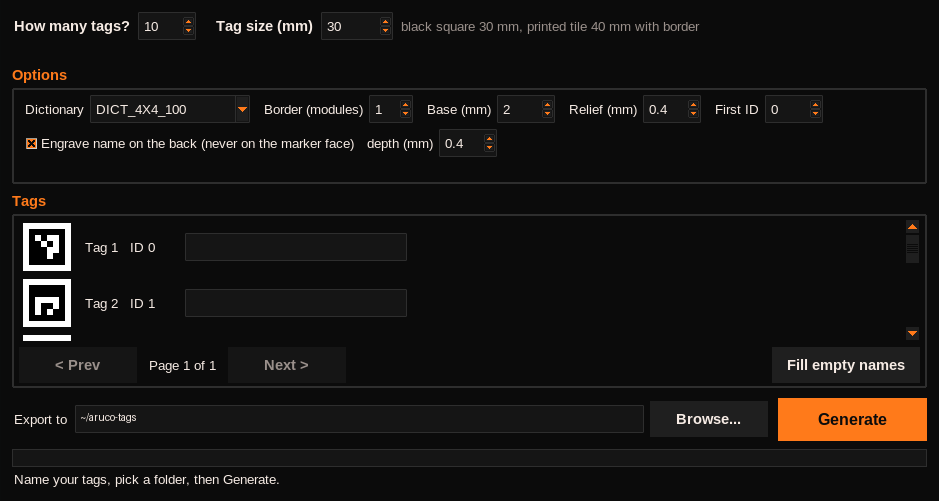
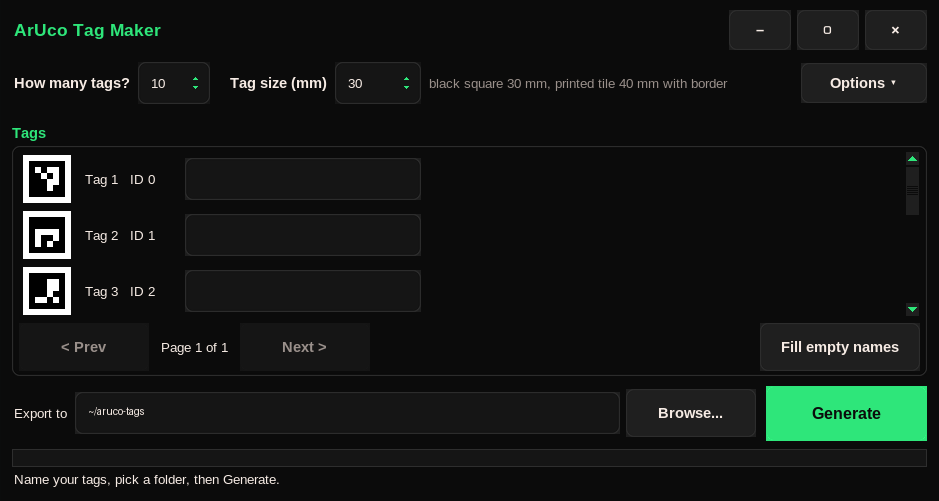
Green accent, rounded fields and buttons, window controls, collapsible options

diff --git a/src/aruco_tag_maker/theme.py b/src/aruco_tag_maker/theme.py
@@ -1,9 +1,12 @@
-"""Dark, high-contrast ttk theme (near-black surfaces, warm off-white text, orange accent)."""
+"""Dark, high-contrast ttk theme: near-black surfaces, warm off-white text, green accent,
+rounded fields and buttons (drawn as anti-aliased images, so it looks the same on every OS)."""
 
 from __future__ import annotations
 
 import tkinter as tk
 from tkinter import ttk
+
+from PIL import Image, ImageDraw, ImageTk
 
 BG = "#0b0b0b"          # window background
 SURFACE = "#151515"     # panels, entries
@@ -11,12 +14,12 @@ SURFACE_HI = "#1f1f1f"  # hover / raised
 BORDER = "#2e2e2e"
 TEXT = "#f7ece5"
 MUTED = "#9a908b"
-ACCENT = "#ff7a1a"
-ACCENT_HI = "#ff9a4d"
-ACCENT_LO = "#c85a0c"
+ACCENT = "#2ee67a"
+ACCENT_HI = "#62f59c"
+ACCENT_LO = "#1fae5a"
 ON_ACCENT = "#0b0b0b"
 ERROR = "#ff5c5c"
-FOCUS = "#ffb46b"
+FOCUS = "#8affbd"
 
 FONT = ("TkDefaultFont", 10)
 FONT_BOLD = ("TkDefaultFont", 11, "bold")
@@ -65,8 +68,8 @@ def apply(root: tk.Misc) -> ttk.Style:
                     lightcolor=ACCENT, darkcolor=ACCENT, font=("TkDefaultFont", 12, "bold"),
                     padding=(22, 9))
     style.map("Accent.TButton",
-              background=[("disabled", "#5a3a22"), ("pressed", ACCENT_LO), ("active", ACCENT_HI)],
-              foreground=[("disabled", "#9a7a62")],
+              background=[("disabled", "#1d4a31"), ("pressed", ACCENT_LO), ("active", ACCENT_HI)],
+              foreground=[("disabled", "#6f9a80")],
               bordercolor=[("active", ACCENT_HI), ("focus", FOCUS)],
               lightcolor=[("active", ACCENT_HI)], darkcolor=[("active", ACCENT_HI)])
 
@@ -91,6 +94,95 @@ def apply(root: tk.Misc) -> ttk.Style:
                     bordercolor=BG, arrowcolor=ACCENT, lightcolor=SURFACE_HI, darkcolor=SURFACE_HI)
     style.map("Vertical.TScrollbar", background=[("active", ACCENT_LO)])
 
+    _rounded_elements(root, style)
+
     style.configure("Horizontal.TProgressbar", background=ACCENT, troughcolor=SURFACE,
                     bordercolor=BORDER, lightcolor=ACCENT, darkcolor=ACCENT, thickness=10)
     return style
+
+
+RADIUS = 8
+_SIZE = 32  # source image size; the 9-slice border keeps corners crisp at any widget size
+
+
+def _round_image(fill: str, outline: str, width: int = 1) -> Image.Image:
+    """Anti-aliased rounded rectangle with transparent corners (drawn 4x, then downsampled)."""
+    k = 4
+    big = Image.new("RGBA", (_SIZE * k, _SIZE * k), (0, 0, 0, 0))
+    ImageDraw.Draw(big).rounded_rectangle(
+        (0, 0, _SIZE * k - 1, _SIZE * k - 1), radius=RADIUS * k, fill=fill,
+        outline=outline, width=width * k)
+    return big.resize((_SIZE, _SIZE), Image.LANCZOS)
+
+
+def _rounded_elements(root: tk.Misc, style: ttk.Style) -> None:
+    """Replace the square field and button borders with rounded image elements."""
+    keep = getattr(root, "_theme_images", {})
+    root._theme_images = keep  # tk drops images that Python garbage-collects
+
+    def img(name: str, fill: str, outline: str, width: int = 1) -> ImageTk.PhotoImage:
+        keep[name] = ImageTk.PhotoImage(_round_image(fill, outline, width), master=root)
+        return keep[name]
+
+    border = RADIUS + 1
+    if "RoundField" not in style.element_names():
+        style.element_create(
+            "RoundField", "image", img("field", SURFACE, BORDER),
+            ("disabled", img("field_off", BG, BORDER)),
+            ("focus", img("field_focus", SURFACE, ACCENT, 2)),
+            ("hover", img("field_hover", SURFACE, "#4a4a4a")),
+            border=border, sticky="nsew")
+        style.element_create(
+            "RoundButton", "image", img("btn", SURFACE_HI, BORDER),
+            ("disabled", img("btn_off", SURFACE, SURFACE)),
+            ("pressed", img("btn_down", ACCENT_LO, ACCENT_LO)),
+            ("active", img("btn_hover", "#2a2a2a", ACCENT)),
+            ("focus", img("btn_focus", SURFACE_HI, ACCENT)),
+            border=border, sticky="nsew")
+        style.element_create(
+            "RoundAccent", "image", img("acc", ACCENT, ACCENT),
+            ("disabled", img("acc_off", "#1d4a31", "#1d4a31")),
+            ("pressed", img("acc_down", ACCENT_LO, ACCENT_LO)),
+            ("active", img("acc_hover", ACCENT_HI, ACCENT_HI)),
+            border=border, sticky="nsew")
+
+        style.element_create(
+            "RoundClose", "image", img("close", SURFACE_HI, BORDER),
+            ("pressed", img("close_down", "#a51d1d", "#a51d1d")),
+            ("active", img("close_hover", ERROR, ERROR)),
+            border=border, sticky="nsew")
+        style.element_create("RoundFrame", "image", img("frame", BG, BORDER),
+                             border=border, sticky="nsew")
+
+    style.layout("TLabelframe", [("RoundFrame", {"sticky": "nsew"})])
+
+    style.configure("Chrome.TButton", padding=(10, 2), font=("TkDefaultFont", 11, "bold"))
+    style.configure("Close.TButton", padding=(10, 2), font=("TkDefaultFont", 11, "bold"))
+    style.configure("Title.TLabel", foreground=ACCENT, font=("TkDefaultFont", 13, "bold"))
+
+    def button(element: str) -> list:
+        return [(element, {"sticky": "nsew", "children": [
+            ("Button.padding", {"sticky": "nsew", "children": [
+                ("Button.label", {"sticky": "nsew"})]})]})]
+
+    style.layout("TButton", button("RoundButton"))
+    style.layout("Accent.TButton", button("RoundAccent"))
+    style.layout("Chrome.TButton", button("RoundButton"))
+    style.layout("Close.TButton", button("RoundClose"))
+    style.layout("TEntry", [("RoundField", {"sticky": "nsew", "children": [
+        ("Entry.padding", {"sticky": "nsew", "children": [
+            ("Entry.textarea", {"sticky": "nsew"})]})]})])
+    style.layout("TSpinbox", [("RoundField", {"sticky": "nsew", "children": [
+        ("null", {"side": "right", "sticky": "", "children": [
+            ("Spinbox.uparrow", {"side": "top", "sticky": "e"}),
+            ("Spinbox.downarrow", {"side": "bottom", "sticky": "e"})]}),
+        ("Spinbox.padding", {"sticky": "nsew", "children": [
+            ("Spinbox.textarea", {"sticky": "nsew"})]})]})])
+    style.layout("TCombobox", [("RoundField", {"sticky": "nsew", "children": [
+        ("Combobox.downarrow", {"side": "right", "sticky": "ns"}),
+        ("Combobox.padding", {"expand": "1", "sticky": "nsew", "children": [
+            ("Combobox.textarea", {"sticky": "nsew"})]})]})])
+    # Arrow buttons blend into the rounded field instead of drawing grey boxes.
+    for widget in ("TSpinbox", "TCombobox"):
+        style.configure(widget, background=SURFACE, lightcolor=SURFACE, darkcolor=SURFACE,
+                        bordercolor=SURFACE)

diff --git a/src/aruco_tag_maker/gui.py b/src/aruco_tag_maker/gui.py
@@ -87,6 +87,21 @@ class TagMakerApp:
         root = self.root
         theme.apply(root)
 
+        # window controls (tiling desktops often draw no title bar)
+        header = ttk.Frame(root, padding=(12, 10, 12, 0))
+        header.pack(fill="x")
+        ttk.Label(header, text="ArUco Tag Maker", style="Title.TLabel").pack(side="left")
+        ttk.Button(header, text="\u2715", style="Close.TButton", width=3,
+                   command=self.close).pack(side="right")
+        ttk.Button(header, text="\u25a2", style="Chrome.TButton", width=3,
+                   command=self.toggle_fullscreen).pack(side="right", padx=(0, 6))
+        ttk.Button(header, text="\u2013", style="Chrome.TButton", width=3,
+                   command=self.root.iconify).pack(side="right", padx=(0, 6))
+        root.bind("<F11>", lambda e: self.toggle_fullscreen())
+        root.bind("<Escape>", lambda e: self.toggle_fullscreen(False))
+        root.bind("<Control-q>", lambda e: self.close())
+        root.protocol("WM_DELETE_WINDOW", self.close)
+
         outer = ttk.Frame(root, padding=12)
         outer.pack(fill="both", expand=True)
         outer.columnconfigure(0, weight=1)
@@ -104,6 +119,10 @@ class TagMakerApp:
                                      textvariable=self.size_var)
         self.size_spin.grid(row=0, column=3, padx=6)
         ttk.Label(top, textvariable=self.size_hint, style="Muted.TLabel").grid(row=0, column=4, sticky="w")
+        top.columnconfigure(5, weight=1)
+        self.opts_btn = ttk.Button(top, text="Options \u25be", style="Chrome.TButton",
+                                   command=self.toggle_options)
+        self.opts_btn.grid(row=0, column=6, sticky="e")
         ttk.Label(top, textvariable=self.count_error, style="Error.TLabel").grid(
             row=1, column=0, columnspan=5, sticky="w")
 
@@ -125,6 +144,10 @@ class TagMakerApp:
                         variable=self.engrave_var).pack(side="left")
         self._small_spin(row2, "  depth (mm)", self.depth_var, 0.1, 5, 0.1, 5)
         ttk.Label(opts, textvariable=self.settings_error, style="Error.TLabel").pack(anchor="w")
+        self.opts = opts
+        opts.grid_remove()  # collapsed by default so the tag list gets the room
+        self.settings_error.trace_add(
+            "write", lambda *_: self.settings_error.get() and self.toggle_options(True))
 
         # 3. paginated tag list
         listbox = ttk.LabelFrame(outer, text="Tags", padding=(6, 4))
@@ -433,6 +456,27 @@ class TagMakerApp:
             pass
         if self.root.winfo_exists():
             self.root.after(50, self._poll_events)
+
+    def toggle_options(self, show: bool | None = None) -> None:
+        if show is None:
+            show = not self.opts.winfo_ismapped()
+        if show:
+            self.opts.grid()
+            self.opts_btn.configure(text="Options \u25b4")
+        else:
+            self.opts.grid_remove()
+            self.opts_btn.configure(text="Options \u25be")
+
+    def toggle_fullscreen(self, state: bool | None = None) -> None:
+        if state is None:
+            state = not bool(self.root.attributes("-fullscreen"))
+        self.root.attributes("-fullscreen", state)
+
+    def close(self) -> None:
+        if self.busy and not messagebox.askyesno(
+                "Export running", "An export is still running. Quit anyway?", parent=self.root):
+            return
+        self.root.destroy()
 
     def _set_busy(self, busy: bool) -> None:
         self.busy = busy
